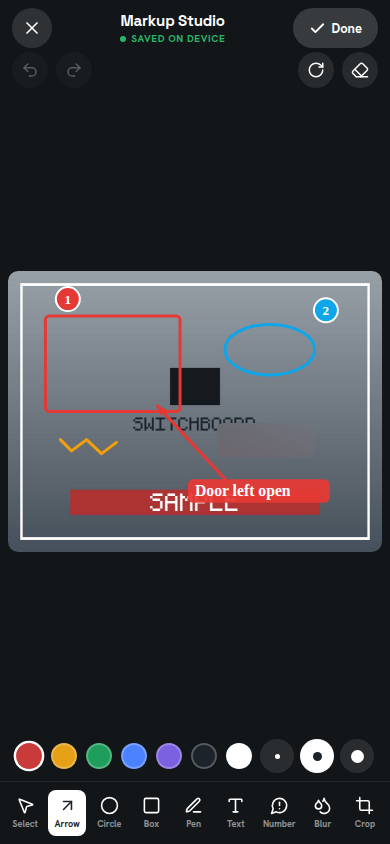
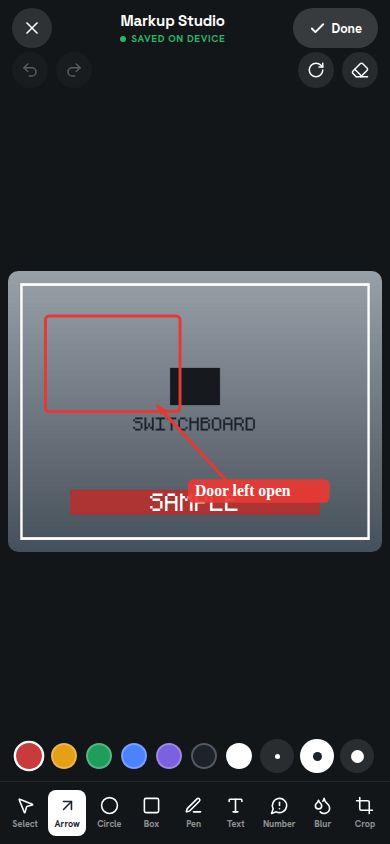
fix(hero): remove decorative phone notch, re-capture screenshots
Fixes real, user-reported problems with the real-screenshot phone
mockups: a black bar sat over header text on the hero's capture-session
and markup-studio phones ("black out of the name"), and the markup demo
photo showed 7 stacked annotation marks at once ("markups over markups").

Root cause of the black bar: PhoneMockup.jsx drew a decorative
notch/dynamic-island overlay at a fixed position near the top of every
phone frame. The real screenshots are captured on web, which has no
physical notch and so no safe-area inset pushing header content clear of
one - so the fake notch ended up sitting directly on top of real header
text ("Markup Studio", "Pre-Handover Site Walk") that a real device
would never have covered. Removed the notch entirely rather than trying
to re-simulate a safe-area gap during capture - it was purely
decorative, and a device frame that lies about what's under it is worse
than one with no notch at all.

The annotation clutter was fixed at the source: audit-snap-663's issue
#008 seed data (commit ec6b0a1) trimmed from 8 stacked annotation marks
to 3 (box, arrow, note) - see that repo's commit for the full reasoning.
Re-captured markup-studio.png and issue-annotated.png against the fixed
app + trimmed data; report-preview.png also changed since its "item page
preview" thumbnails issue #008's annotated photo. dashboard.png,
capture-session.png, issue-detail.png, hitlist.png and report-builder.png
[…]

diff --git a/src/components/PhoneMockup.jsx b/src/components/PhoneMockup.jsx
@@ -47,13 +47,13 @@ export default function PhoneMockup({ children, image, maxWidth = 240, label = '
           background: '#0A0A0A',
           overflow: 'hidden',
         }}>
-          {/* Notch / dynamic island */}
-          <div style={{
-            position:'absolute', top:'1.5%', left:'50%',
-            transform:'translateX(-50%)',
-            width:'28%', height:'3.2%',
-            background:'#111', borderRadius:'999px', zIndex: 10,
-          }} aria-hidden="true" />
+          {/* No decorative notch/dynamic island here on purpose: the real
+              screenshots are captured on web, which has no physical notch
+              and so no safe-area gap pushing header content clear of one —
+              a fake notch drawn on top at a fixed position ended up sitting
+              directly over real header text (e.g. "Markup Studio") on
+              several screens. A device frame that lies about what's under
+              it is worse than one with no notch at all. */}
 
           {/* Screen content area — real screenshot (preferred) or children render at 390×844 virtual coords */}
           <div style={{

diff --git a/src/config/media-manifest.js b/src/config/media-manifest.js
@@ -10,9 +10,9 @@
 
 export const SOURCE_APP = {
   repo: 'henrique919/audit-snap-663',
-  commit: '6c3e20233bdceb011be34dfecf13f26c150f4adc',
-  branch: 'main',
-  buildCommand: 'cd expo && bun run build:web',
+  commit: 'ec6b0a137254dee7f5e0195704c5187adc097fa0', // re-captured after the notch-overlay fix and the issue #008 markup cleanup — see PUNCHTHIS_MARKETING_LOOP.md
+  branch: 'claude/punchthis-design-review-vxgpzk',
+  buildCommand: 'cd expo && npm run build:web',
 }
 
 export const CAPTURE_METHOD = 'Playwright + Chromium, 390x844 viewport, served from the release web export'
@@ -37,7 +37,7 @@ export const APP_SCREENS = {
   markupStudio: {
     file: 'markup-studio.png',
     route: '/markup/[assetId]',
-    label: 'Markup Studio with real box, circle and arrow annotations on a sample issue photo',
+    label: 'Markup Studio with real box, arrow and text annotations on a sample issue photo',
   },
   hitlist: {
     file: 'hitlist.png',
@@ -62,6 +62,6 @@ export const APP_SCREENS = {
   issueAnnotated: {
     file: 'issue-annotated.png',
     route: '/markup/[assetId]',
-    label: 'The same issue #008 photo after real arrow/box/circle/text annotation, cropped from the markup-studio.png capture to isolate the photo card',
+    label: 'The same issue #008 photo after real box/arrow/text annotation, captured directly from the photo canvas element (testID="markup-photo-canvas") rather than cropped by pixel offset from the full-screen capture',
   },
 }

diff --git a/src/components/IssueJourney.jsx b/src/components/IssueJourney.jsx
@@ -7,7 +7,7 @@ import issueAnnotatedImg from '../assets/app-screens/issue-annotated.png'
 
 const STEPS = [
   { n: '01', label: 'Photo', body: 'Captured on site and attached to a new issue — no separate app, no re-typing.' },
-  { n: '02', label: 'Markup', body: 'Boxed the fault, circled the fixture, drew an arrow and left a note — real annotation tools, drag the slider to see it.' },
+  { n: '02', label: 'Markup', body: 'Boxed the fault, drew an arrow to it and left a note — real annotation tools, drag the slider to see it.' },
   { n: '03', label: 'Report', body: 'The annotated photo, its status and its assignee carry straight through into the PDF report.' },
 ]
 